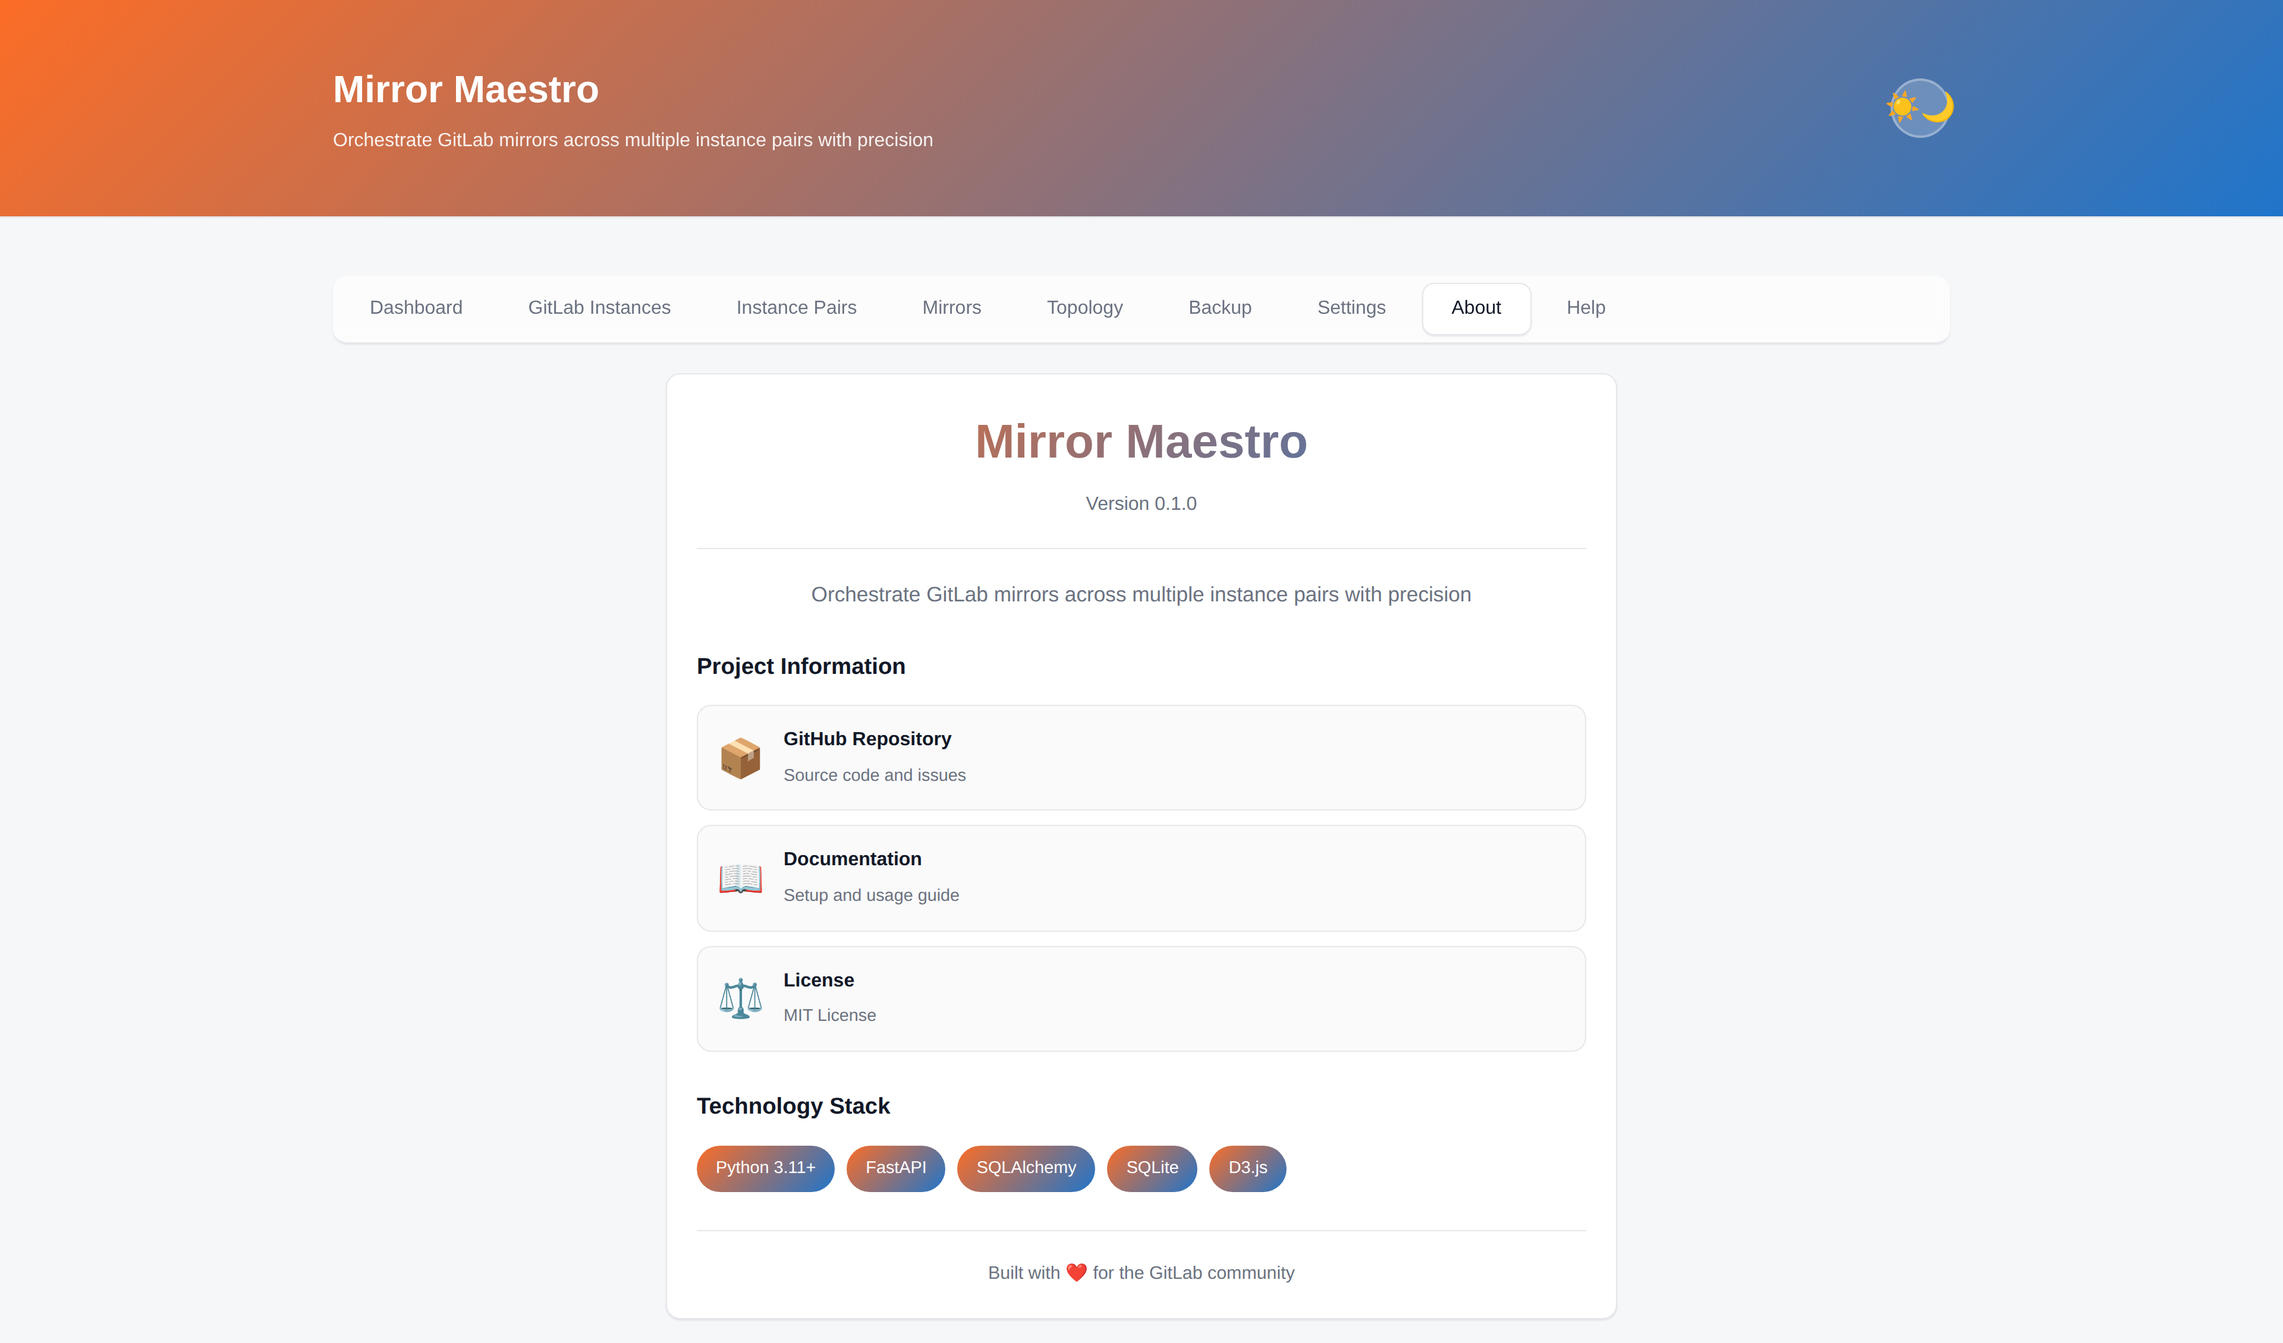
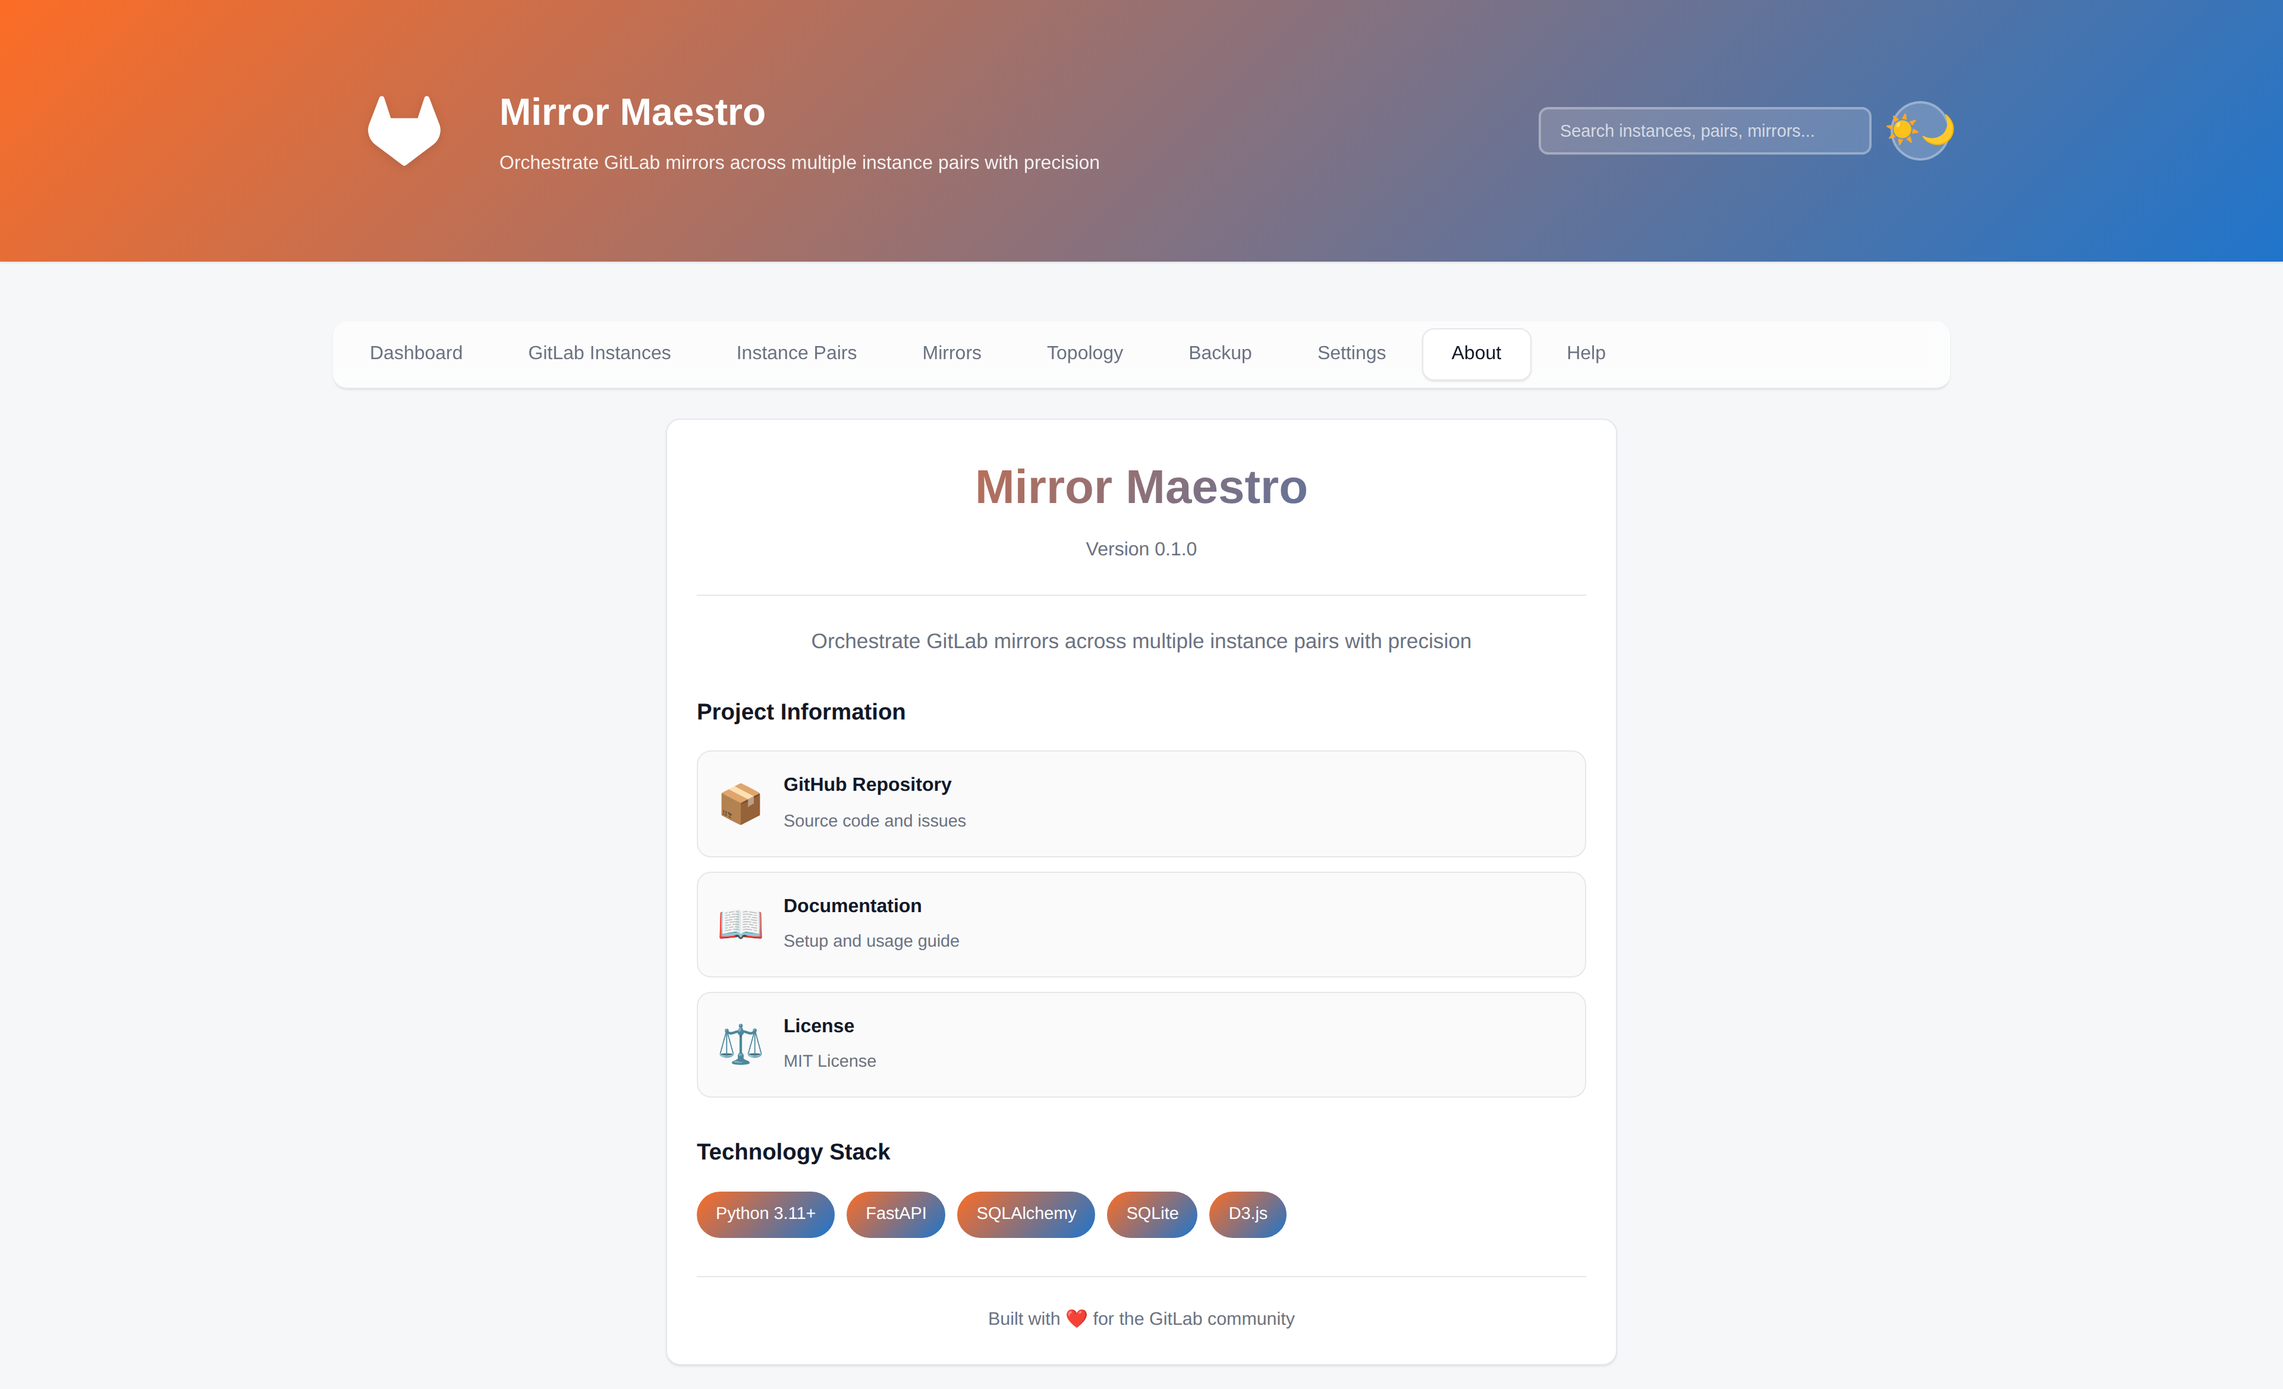
docs: Update all screenshots to match actual app header
- Add logo image to all demo pages
- Add global search bar to header
- Reposition dark mode toggle button
- Regenerate all 9 screenshots with proper header layout

This ensures screenshots accurately represent the real application UI
with logo, search functionality, and proper header controls positioning.

diff --git a/docs/screenshots/demo-about.html b/docs/screenshots/demo-about.html
@@ -10,14 +10,23 @@
     <header>
         <div class="container">
             <div class="header-content">
-                <div>
-                    <h1>Mirror Maestro</h1>
-                    <p>Orchestrate GitLab mirrors across multiple instance pairs with precision</p>
+                <div class="header-title-section">
+                    <img src="../../app/static/images/logo.svg" alt="Mirror Maestro Logo" class="header-logo">
+                    <div>
+                        <h1>Mirror Maestro</h1>
+                        <p>Orchestrate GitLab mirrors across multiple instance pairs with precision</p>
+                    </div>
                 </div>
-                <button id="dark-mode-toggle" class="dark-mode-toggle" title="Toggle dark mode" aria-label="Toggle dark mode">
-                    <span class="theme-icon theme-icon-light">☀</span>
-                    <span class="theme-icon theme-icon-dark">🌙</span>
-                </button>
+                <div class="header-controls">
+                    <div class="global-search-container">
+                        <input type="search" id="global-search" class="global-search-input" placeholder="Search instances, pairs, mirrors..." aria-label="Global search">
+                        <div id="global-search-results" class="global-search-results"></div>
+                    </div>
+                    <button id="dark-mode-toggle" class="dark-mode-toggle" title="Toggle dark mode" aria-label="Toggle dark mode">
+                        <span class="theme-icon theme-icon-light">☀</span>
+                        <span class="theme-icon theme-icon-dark">🌙</span>
+                    </button>
+                </div>
             </div>
         </div>
     </header>

diff --git a/docs/screenshots/demo-backup.html b/docs/screenshots/demo-backup.html
@@ -10,14 +10,23 @@
     <header>
         <div class="container">
             <div class="header-content">
-                <div>
-                    <h1>Mirror Maestro</h1>
-                    <p>Orchestrate GitLab mirrors across multiple instance pairs with precision</p>
+                <div class="header-title-section">
+                    <img src="../../app/static/images/logo.svg" alt="Mirror Maestro Logo" class="header-logo">
+                    <div>
+                        <h1>Mirror Maestro</h1>
+                        <p>Orchestrate GitLab mirrors across multiple instance pairs with precision</p>
+                    </div>
                 </div>
-                <button id="dark-mode-toggle" class="dark-mode-toggle" title="Toggle dark mode" aria-label="Toggle dark mode">
-                    <span class="theme-icon theme-icon-light">☀</span>
-                    <span class="theme-icon theme-icon-dark">🌙</span>
-                </button>
+                <div class="header-controls">
+                    <div class="global-search-container">
+                        <input type="search" id="global-search" class="global-search-input" placeholder="Search instances, pairs, mirrors..." aria-label="Global search">
+                        <div id="global-search-results" class="global-search-results"></div>
+                    </div>
+                    <button id="dark-mode-toggle" class="dark-mode-toggle" title="Toggle dark mode" aria-label="Toggle dark mode">
+                        <span class="theme-icon theme-icon-light">☀</span>
+                        <span class="theme-icon theme-icon-dark">🌙</span>
+                    </button>
+                </div>
             </div>
         </div>
     </header>

diff --git a/docs/screenshots/demo-help.html b/docs/screenshots/demo-help.html
@@ -10,14 +10,23 @@
     <header>
         <div class="container">
             <div class="header-content">
-                <div>
-                    <h1>Mirror Maestro</h1>
-                    <p>Orchestrate GitLab mirrors across multiple instance pairs with precision</p>
+                <div class="header-title-section">
+                    <img src="../../app/static/images/logo.svg" alt="Mirror Maestro Logo" class="header-logo">
+                    <div>
+                        <h1>Mirror Maestro</h1>
+                        <p>Orchestrate GitLab mirrors across multiple instance pairs with precision</p>
+                    </div>
                 </div>
-                <button id="dark-mode-toggle" class="dark-mode-toggle" title="Toggle dark mode" aria-label="Toggle dark mode">
-                    <span class="theme-icon theme-icon-light">☀</span>
-                    <span class="theme-icon theme-icon-dark">🌙</span>
-                </button>
+                <div class="header-controls">
+                    <div class="global-search-container">
+                        <input type="search" id="global-search" class="global-search-input" placeholder="Search instances, pairs, mirrors..." aria-label="Global search">
+                        <div id="global-search-results" class="global-search-results"></div>
+                    </div>
+                    <button id="dark-mode-toggle" class="dark-mode-toggle" title="Toggle dark mode" aria-label="Toggle dark mode">
+                        <span class="theme-icon theme-icon-light">☀</span>
+                        <span class="theme-icon theme-icon-dark">🌙</span>
+                    </button>
+                </div>
             </div>
         </div>
     </header>

diff --git a/docs/screenshots/demo-dashboard.html b/docs/screenshots/demo-dashboard.html
@@ -10,12 +10,25 @@
 <body>
     <header>
         <div class="container">
-            <h1>Mirror Maestro</h1>
-            <p>Orchestrate GitLab mirrors across multiple instance pairs with precision</p>
-            <button id="dark-mode-toggle" class="dark-mode-toggle" title="Toggle dark mode" aria-label="Toggle dark mode">
-                <span class="theme-icon theme-icon-light">☀</span>
-                <span class="theme-icon theme-icon-dark">🌙</span>
-            </button>
+            <div class="header-content">
+                <div class="header-title-section">
+                    <img src="../../app/static/images/logo.svg" alt="Mirror Maestro Logo" class="header-logo">
+                    <div>
+                        <h1>Mirror Maestro</h1>
+                        <p>Orchestrate GitLab mirrors across multiple instance pairs with precision</p>
+                    </div>
+                </div>
+                <div class="header-controls">
+                    <div class="global-search-container">
+                        <input type="search" id="global-search" class="global-search-input" placeholder="Search instances, pairs, mirrors..." aria-label="Global search">
+                        <div id="global-search-results" class="global-search-results"></div>
+                    </div>
+                    <button id="dark-mode-toggle" class="dark-mode-toggle" title="Toggle dark mode" aria-label="Toggle dark mode">
+                        <span class="theme-icon theme-icon-light">☀</span>
+                        <span class="theme-icon theme-icon-dark">🌙</span>
+                    </button>
+                </div>
+            </div>
         </div>
     </header>
 

diff --git a/docs/screenshots/demo-settings.html b/docs/screenshots/demo-settings.html
@@ -10,11 +10,22 @@
     <header>
         <div class="container">
             <div class="header-content">
-                <div>
-                    <h1>Mirror Maestro</h1>
-                    <p>Orchestrate GitLab mirrors across multiple instance pairs with precision</p>
+                <div class="header-title-section">
+                    <img src="../../app/static/images/logo.svg" alt="Mirror Maestro Logo" class="header-logo">
+                    <div>
+                        <h1>Mirror Maestro</h1>
+                        <p>Orchestrate GitLab mirrors across multiple instance pairs with precision</p>
+                    </div>
                 </div>
-                <div style="display: flex; align-items: center; gap: 16px;">
+                <div class="header-controls">
+                    <div class="global-search-container">
+                        <input type="search" id="global-search" class="global-search-input" placeholder="Search instances, pairs, mirrors..." aria-label="Global search">
+                        <div id="global-search-results" class="global-search-results"></div>
+                    </div>
+                    <button id="dark-mode-toggle" class="dark-mode-toggle" title="Toggle dark mode" aria-label="Toggle dark mode">
+                        <span class="theme-icon theme-icon-light">☀</span>
+                        <span class="theme-icon theme-icon-dark">🌙</span>
+                    </button>
                     <div class="user-menu open" id="user-menu">
                         <button class="user-menu-toggle" id="user-menu-toggle" aria-label="User menu">
                             <span class="user-avatar">👤</span>

diff --git a/docs/screenshots/demo-instances.html b/docs/screenshots/demo-instances.html
@@ -9,8 +9,25 @@
 <body>
     <header>
         <div class="container">
-            <h1>Mirror Maestro</h1>
-            <p>Orchestrate GitLab mirrors across multiple instance pairs with precision</p>
+            <div class="header-content">
+                <div class="header-title-section">
+                    <img src="../../app/static/images/logo.svg" alt="Mirror Maestro Logo" class="header-logo">
+                    <div>
+                        <h1>Mirror Maestro</h1>
+                        <p>Orchestrate GitLab mirrors across multiple instance pairs with precision</p>
+                    </div>
+                </div>
+                <div class="header-controls">
+                    <div class="global-search-container">
+                        <input type="search" id="global-search" class="global-search-input" placeholder="Search instances, pairs, mirrors..." aria-label="Global search">
+                        <div id="global-search-results" class="global-search-results"></div>
+                    </div>
+                    <button id="dark-mode-toggle" class="dark-mode-toggle" title="Toggle dark mode" aria-label="Toggle dark mode">
+                        <span class="theme-icon theme-icon-light">☀</span>
+                        <span class="theme-icon theme-icon-dark">🌙</span>
+                    </button>
+                </div>
+            </div>
         </div>
     </header>
 

diff --git a/docs/screenshots/demo-mirrors.html b/docs/screenshots/demo-mirrors.html
@@ -9,8 +9,25 @@
 <body>
     <header>
         <div class="container">
-            <h1>Mirror Maestro</h1>
-            <p>Orchestrate GitLab mirrors across multiple instance pairs with precision</p>
+            <div class="header-content">
+                <div class="header-title-section">
+                    <img src="../../app/static/images/logo.svg" alt="Mirror Maestro Logo" class="header-logo">
+                    <div>
+                        <h1>Mirror Maestro</h1>
+                        <p>Orchestrate GitLab mirrors across multiple instance pairs with precision</p>
+                    </div>
+                </div>
+                <div class="header-controls">
+                    <div class="global-search-container">
+                        <input type="search" id="global-search" class="global-search-input" placeholder="Search instances, pairs, mirrors..." aria-label="Global search">
+                        <div id="global-search-results" class="global-search-results"></div>
+                    </div>
+                    <button id="dark-mode-toggle" class="dark-mode-toggle" title="Toggle dark mode" aria-label="Toggle dark mode">
+                        <span class="theme-icon theme-icon-light">☀</span>
+                        <span class="theme-icon theme-icon-dark">🌙</span>
+                    </button>
+                </div>
+            </div>
         </div>
     </header>
 

diff --git a/docs/screenshots/demo-pairs.html b/docs/screenshots/demo-pairs.html
@@ -9,8 +9,25 @@
 <body>
     <header>
         <div class="container">
-            <h1>Mirror Maestro</h1>
-            <p>Orchestrate GitLab mirrors across multiple instance pairs with precision</p>
+            <div class="header-content">
+                <div class="header-title-section">
+                    <img src="../../app/static/images/logo.svg" alt="Mirror Maestro Logo" class="header-logo">
+                    <div>
+                        <h1>Mirror Maestro</h1>
+                        <p>Orchestrate GitLab mirrors across multiple instance pairs with precision</p>
+                    </div>
+                </div>
+                <div class="header-controls">
+                    <div class="global-search-container">
+                        <input type="search" id="global-search" class="global-search-input" placeholder="Search instances, pairs, mirrors..." aria-label="Global search">
+                        <div id="global-search-results" class="global-search-results"></div>
+                    </div>
+                    <button id="dark-mode-toggle" class="dark-mode-toggle" title="Toggle dark mode" aria-label="Toggle dark mode">
+                        <span class="theme-icon theme-icon-light">☀</span>
+                        <span class="theme-icon theme-icon-dark">🌙</span>
+                    </button>
+                </div>
+            </div>
         </div>
     </header>
 

diff --git a/docs/screenshots/demo-topology.html b/docs/screenshots/demo-topology.html
@@ -9,8 +9,25 @@
 <body>
     <header>
         <div class="container">
-            <h1>Mirror Maestro</h1>
-            <p>Orchestrate GitLab mirrors across multiple instance pairs with precision</p>
+            <div class="header-content">
+                <div class="header-title-section">
+                    <img src="../../app/static/images/logo.svg" alt="Mirror Maestro Logo" class="header-logo">
+                    <div>
+                        <h1>Mirror Maestro</h1>
+                        <p>Orchestrate GitLab mirrors across multiple instance pairs with precision</p>
+                    </div>
+                </div>
+                <div class="header-controls">
+                    <div class="global-search-container">
+                        <input type="search" id="global-search" class="global-search-input" placeholder="Search instances, pairs, mirrors..." aria-label="Global search">
+                        <div id="global-search-results" class="global-search-results"></div>
+                    </div>
+                    <button id="dark-mode-toggle" class="dark-mode-toggle" title="Toggle dark mode" aria-label="Toggle dark mode">
+                        <span class="theme-icon theme-icon-light">☀</span>
+                        <span class="theme-icon theme-icon-dark">🌙</span>
+                    </button>
+                </div>
+            </div>
         </div>
     </header>
 
